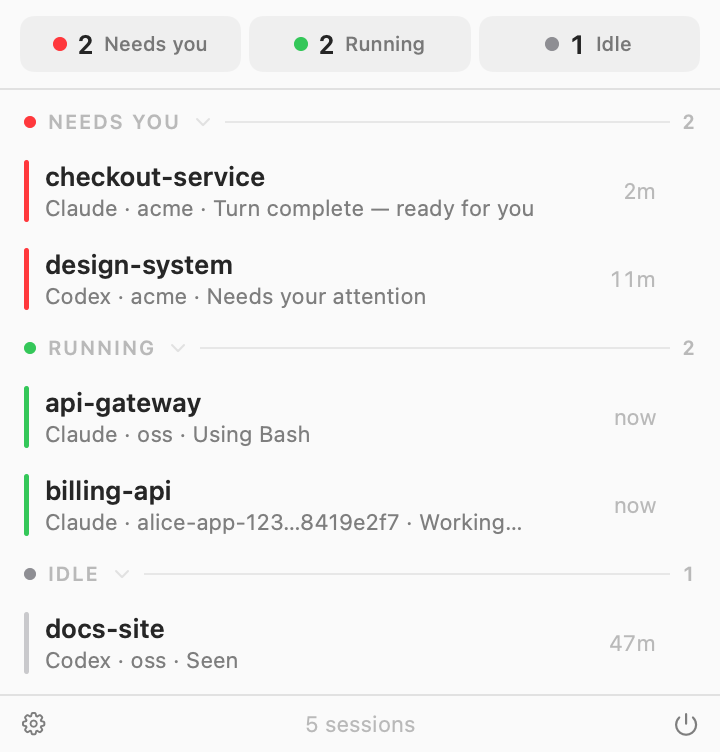
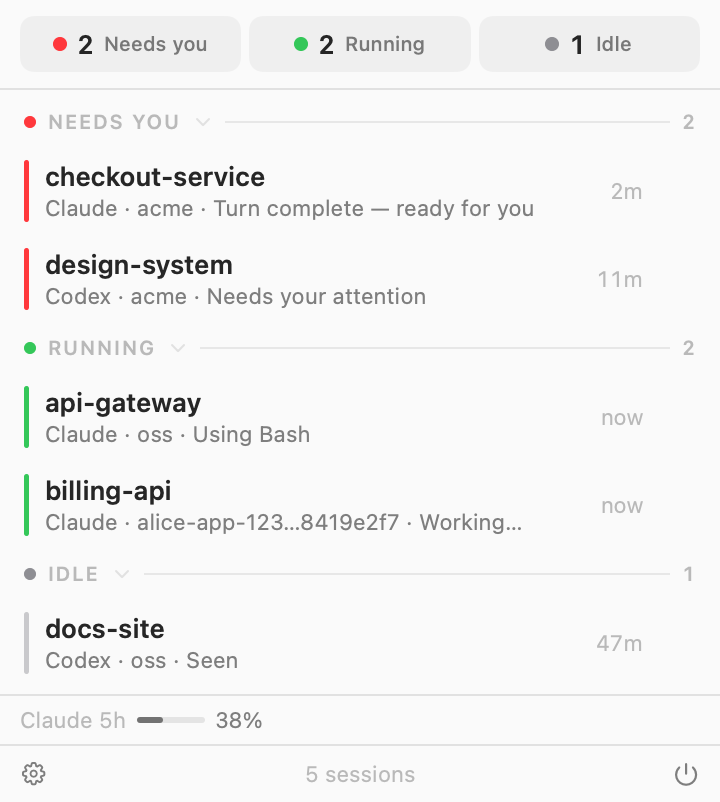
feat(app): show how much quota is left, before it runs out
The app has been reading this all along and throwing it away. Claude's
five-hour and weekly percentages arrive on every statusline payload,
Codex's on the token_count lines in its rollouts, and AccountLimits
already merges both — but nothing surfaced a number until a limit was
actually reached. That is the wrong moment to start caring: by then the
session has stopped, and the figure that would have said "don't start
something big now" went unread all day.

A strip above the footer, one entry per provider that has a session on
screen: label, hairline bar, percentage, reset time on hover.

Whichever window is closest to its limit wins the space, since that is
the one that will stop work first. A reading with no percentage is
dropped rather than drawn as zero — "nothing known" and "nothing used"
are the two states this must never merge — and so is one whose reset has
passed, because nothing writes a correction when a window rolls over,
the file simply goes quiet.

Scoped to providers currently on screen: an account limit outlives the
sessions that reported it, so otherwise the strip would still be quoting
Codex quota an hour after the last Codex session closed.

Derived in rebuild and published as its own value rather than exposing
AccountLimits, which is mutated several times per pass as readings merge
and would redraw the menu bar icon on each one.

The bar stays grey until 75%. A gauge that is amber at half teaches
[…]

diff --git a/Tests/AgentTrackerTests/UsageSummaryTests.swift b/Tests/AgentTrackerTests/UsageSummaryTests.swift
@@ -1,0 +1,105 @@
+import Foundation
+import Testing
+
+@testable import AgentTracker
+
+@Suite("UsageSummary")
+struct UsageSummaryTests {
+    private let now = Date(timeIntervalSince1970: 1_786_200_000)
+
+    private func limits(_ entries: [(String, UsageLimit)]) -> AccountLimits {
+        var limits = AccountLimits()
+        for (provider, limit) in entries { limits.record(limit, for: provider) }
+        return limits
+    }
+
+    private func limit(
+        _ window: UsageLimit.Window, used: Double?, resetsIn: TimeInterval, reached: Bool = false
+    ) -> UsageLimit {
+        UsageLimit(
+            window: window, usedPercent: used, resetsAt: now.addingTimeInterval(resetsIn),
+            isReached: reached)
+    }
+
+    @Test("a live reading is shown long before anything is blocked")
+    func showsUnblockedUsage() {
+        let readings = UsageSummary.readings(
+            from: limits([("claude-code", limit(.fiveHour, used: 61, resetsIn: 3600))]),
+            providers: ["claude-code"], now: now)
+
+        #expect(readings.count == 1)
+        #expect(readings[0].usedPercent == 61)
+        #expect(readings[0].providerLabel == "Claude")
+        #expect(readings[0].windowLabel == "5h")
+    }
+
+    /// The window that will stop work first is the one worth the space.
+    @Test("the window closest to its limit wins")
+    func picksTheTightestWindow() {
+        let readings = UsageSummary.readings(
+            from: limits([
+                ("claude-code", limit(.fiveHour, used: 20, resetsIn: 3600)),
+                ("claude-code", limit(.weekly, used: 88, resetsIn: 86_400)),
+            ]),
+            providers: ["claude-code"], now: now)
+
+        #expect(readings.count == 1)
+        #expect(readings[0].usedPercent == 88)
+        #expect(readings[0].windowLabel == "7d")
+    }
+
+    /// "No data" and "none used" are the two states this must never merge, so a
+    /// reading with no percentage is dropped rather than shown as zero.
+    @Test("a window with no percentage is not reported as zero")
+    func dropsUnknownPercentages() {
+        let readings = UsageSummary.readings(
+            from: limits([("claude-code", limit(.fiveHour, used: nil, resetsIn: 3600))]),
+            providers: ["claude-code"], now: now)
+        #expect(readings.isEmpty)
+    }
+
+    /// Nothing writes a correction when a window resets — the file just goes
+    /// quiet — so a passed reset makes the reading describe a window that is gone.
+    @Test("a reading whose window has already reset is dropped")
+    func dropsExpiredReadings() {
+        let readings = UsageSummary.readings(
+            from: limits([("claude-code", limit(.fiveHour, used: 99, resetsIn: -60))]),
+            providers: ["claude-code"], now: now)
+        #expect(readings.isEmpty)
+    }
+
+    /// An account limit outlives the sessions that reported it, so without this
+    /// the strip would still quote Codex quota after the last Codex session went.
+    @Test("a provider with no session on screen is not quoted")
+    func scopesToVisibleProviders() {
+        let both = limits([
+            ("claude-code", limit(.fiveHour, used: 61, resetsIn: 3600)),
+            ("codex", limit(.weekly, used: 40, resetsIn: 86_400)),
+        ])
+        let readings = UsageSummary.readings(from: both, providers: ["claude-code"], now: now)
+        #expect(readings.map(\.provider) == ["claude-code"])
+    }
+
+    @Test("two providers are ordered stably, not by dictionary chance")
+    func stableOrder() {
+        let both = limits([
+            ("codex", limit(.weekly, used: 40, resetsIn: 86_400)),
+            ("claude-code", limit(.fiveHour, used: 61, resetsIn: 3600)),
+        ])
+        for _ in 0..<20 {
+            let readings = UsageSummary.readings(
+                from: both, providers: ["codex", "claude-code"], now: now)
+            #expect(readings.map(\.provider) == ["claude-code", "codex"])
+        }
+    }
+
+    @Test("a reached limit still reads as usage, at the number it reached")
+    func reachedLimitsAreStillReadings() {
+        let readings = UsageSummary.readings(
+            from: limits([
+                ("claude-code", limit(.fiveHour, used: 100, resetsIn: 600, reached: true))
+            ]),
+            providers: ["claude-code"], now: now)
+        #expect(readings.first?.usedPercent == 100)
+    }
+}

diff --git a/Sources/AgentTracker/MenuContentView.swift b/Sources/AgentTracker/MenuContentView.swift
@@ -75,6 +75,10 @@ struct MenuContentView: View {
                 sessionList
             }
             Divider()
+            if !store.usage.isEmpty {
+                usageStrip
+                Divider()
+            }
             footer
         }
         .frame(width: Theme.Metrics.popoverWidth)
@@ -332,6 +336,23 @@ struct MenuContentView: View {
     /// destructive one should not be adjacent (user feedback: quit felt
     /// misclickable next to the gear). The count sits between symmetric
     /// spacers, so it lands dead center.
+    /// Quota, where it can be read without looking for it.
+    ///
+    /// Above the footer rather than inside it: the footer's three items are
+    /// controls and a count, and quota is neither. Shown only when a reading
+    /// exists — an empty strip would imply "nothing used" where the truth is
+    /// "nothing known", and those are the two states this must never merge.
+    private var usageStrip: some View {
+        HStack(spacing: 10) {
+            ForEach(store.usage) { reading in
+                UsageChip(reading: reading)
+            }
+            Spacer(minLength: 0)
+        }
+        .padding(.horizontal, Theme.Metrics.gutter)
+        .padding(.vertical, 5)
+    }
+
     private var footer: some View {
         HStack(spacing: 0) {
             FooterIconButton(systemName: "gearshape", help: "Settings (⌘,)") {
@@ -399,6 +420,54 @@ struct MenuContentView: View {
 
 /// Footer icon buttons hover-highlight like the rows do — a click target
 /// that doesn't react reads as disabled (user feedback: the Quit button).
+/// One provider's remaining quota: a label, a bar, a number.
+///
+/// The bar carries no colour until the number is worth reacting to. A gauge that
+/// is amber at 50% teaches people to ignore it, and this sits in a window opened
+/// to answer a different question.
+private struct UsageChip: View {
+    let reading: UsageReading
+
+    private var tint: Color {
+        switch reading.usedPercent {
+        case ..<75: return Color.secondary
+        case ..<90: return .orange
+        default: return .red
+        }
+    }
+
+    private var resetHelp: String {
+        guard let resetsAt = reading.resetsAt else {
+            return "\(reading.providerLabel) \(reading.windowLabel) window"
+        }
+        let formatter = DateFormatter()
+        formatter.dateFormat =
+            Calendar.current.isDateInToday(resetsAt) ? "HH:mm" : "EEE HH:mm"
+        return "Resets \(formatter.string(from: resetsAt))"
+    }
+
+    var body: some View {
+        HStack(spacing: 5) {
+            Text("\(reading.providerLabel) \(reading.windowLabel)")
+                .font(Theme.Typography.footer)
+                .foregroundStyle(.tertiary)
+            Capsule()
+                .fill(Color.secondary.opacity(0.18))
+                .frame(width: 34, height: 3)
+                .overlay(alignment: .leading) {
+                    Capsule()
+                        .fill(tint)
+                        .frame(width: 34 * min(max(reading.usedPercent, 0), 100) / 100, height: 3)
+                }
+            Text("\(Int(reading.usedPercent.rounded()))%")
+                .font(Theme.Typography.footer)
+                .foregroundStyle(.secondary)
+                .monospacedDigit()
+        }
+        .help(resetHelp)
+    }
+}
+
 private struct FooterIconButton: View {
     let systemName: String
     let help: String

diff --git a/Sources/AgentTracker/UsageSummary.swift b/Sources/AgentTracker/UsageSummary.swift
@@ -1,0 +1,68 @@
+import Foundation
+
+/// One provider's usage, as the dropdown shows it.
+struct UsageReading: Equatable, Identifiable, Sendable {
+    var provider: String
+    var window: UsageLimit.Window
+    /// 0-100. Absent readings are dropped rather than shown as zero, because
+    /// "no data" and "none used" are the two things this must never confuse.
+    var usedPercent: Double
+    var resetsAt: Date?
+
+    var id: String { "\(provider)-\(window)" }
+
+    var providerLabel: String {
+        switch provider {
+        case "claude-code": return "Claude"
+        case "codex": return "Codex"
+        default: return provider.capitalized
+        }
+    }
+
+    /// Short enough to sit beside another one in a 380pt popover.
+    var windowLabel: String {
+        switch window {
+        case .fiveHour: return "5h"
+        case .weekly: return "7d"
+        case .other(let minutes): return minutes < 120 ? "\(minutes)m" : "\(minutes / 60)h"
+        }
+    }
+}
+
+/// Decides which usage numbers are worth a line in the dropdown.
+///
+/// The app already reads all of this — Claude's from the statusline payload,
+/// Codex's from the `token_count` lines in its rollouts — and until now threw it
+/// away unless a limit was actually *reached*. That is the wrong moment to
+/// start caring: by then the session has already stopped, and the number that
+/// would have let someone pace their day went unread all day.
+enum UsageSummary {
+    /// One reading per provider: whichever of its windows is closest to its
+    /// limit, since that is the one that will stop work first.
+    ///
+    /// Scoped to providers that actually have a session on screen. An account
+    /// limit outlives the sessions that reported it — `AccountLimits` keeps a
+    /// reading until its reset passes — so without this the footer would still
+    /// be quoting Codex quota an hour after the last Codex session closed.
+    static func readings(
+        from limits: AccountLimits,
+        providers: Set<String>,
+        now: Date
+    ) -> [UsageReading] {
+        providers.compactMap { provider -> UsageReading? in
+            let candidates = limits.limits(for: provider).compactMap { limit -> UsageReading? in
+                guard let used = limit.usedPercent else { return nil }
+                // A reading whose window has already reset describes a window
+                // that no longer exists. Nothing writes a correction — the file
+                // simply goes quiet — so staleness has to be read off the clock.
+                if let resetsAt = limit.resetsAt, resetsAt <= now { return nil }
+                return UsageReading(
+                    provider: provider, window: limit.window, usedPercent: used,
+                    resetsAt: limit.resetsAt)
+            }
+            return candidates.max { $0.usedPercent < $1.usedPercent }
+        }
+        // Stable order, so two providers do not swap places between passes.
+        .sorted { $0.provider < $1.provider }
+    }
+}

diff --git a/Sources/AgentTracker/SessionStore.swift b/Sources/AgentTracker/SessionStore.swift
@@ -78,6 +78,12 @@ final class SessionStore: ObservableObject {
     /// Bumped when a displayed relative time would have changed, so rows
     /// re-render on a quiet machine without republishing identical sessions.
     @Published private(set) var clockTick = 0
+
+    /// What the dropdown shows about remaining quota. Derived in `rebuild` and
+    /// published, rather than exposing `AccountLimits` itself: that is mutated
+    /// several times per pass as readings merge, and observing it directly would
+    /// redraw the menu bar icon on each one.
+    @Published private(set) var usage: [UsageReading] = []
     private var lastClockBucket = 0
     private var codexScanner: CodexSessionScanner?
     private let titleDirectory: TitleDirectory
@@ -275,6 +281,9 @@ final class SessionStore: ObservableObject {
             return UsageLimitPresentation.apply(limit, to: session, now: now)
         }
         armableResetBySession = armableBySession
+        let readings = UsageSummary.readings(
+            from: accountLimits, providers: Set(merged.map(\.provider)), now: now)
+        if usage != readings { usage = readings }
 
         let sorted = merged.sorted { lhs, rhs in
             if lhs.state != rhs.state {

diff --git a/scripts/demo-sessions.py b/scripts/demo-sessions.py
@@ -72,6 +72,21 @@ def main():
         path = sessions / f"{provider}-demo-{name}.json"
         path.write_text(json.dumps(payload, indent=2, sort_keys=True))
 
+    # The usage strip reads Claude's quota from the statusline payload, so
+    # without one the README would picture a dropdown missing a row it now
+    # always has. Invented numbers, chosen to sit below every warning threshold
+    # so the picture shows the resting state rather than an alarm.
+    resets_at = int((datetime.now(timezone.utc) + timedelta(hours=2)).timestamp())
+    statusline = {
+        "rate_limits": {
+            "five_hour": {"used_percentage": 38, "resets_at": resets_at},
+            "seven_day": {"used_percentage": 12, "resets_at": resets_at + 5 * 86400},
+        }
+    }
+    (root / "claude-statusline.json").write_text(
+        json.dumps(statusline, indent=2, sort_keys=True)
+    )
+
     print(f"{len(DEMO)} demo session(s) -> {sessions}")
 
 

diff --git a/README.md b/README.md
@@ -144,6 +144,14 @@ icon and tells the states apart by shape:
 </picture>
 </div>
 
+**Quota, before it stops you.** A strip above the footer shows how much of each
+provider's window you have used — `Claude 5h 38%` — so the number that decides
+whether to start something big is readable at a glance rather than discovered
+when a request is refused. Grey until 75%, amber to 90%, red past it; hover for
+the reset time. Shown only when a reading exists, because "nothing known" and
+"nothing used" are not the same thing. Claude's numbers need the statusline
+wrapper (below); Codex reports its own in the rollouts the app already tails.
+
 **Both agents, one mechanism.** Claude Code and Codex both report through their
 native hooks. Codex is additionally tracked live by reading its own session
 files, so a session that predates the hooks still shows up.
